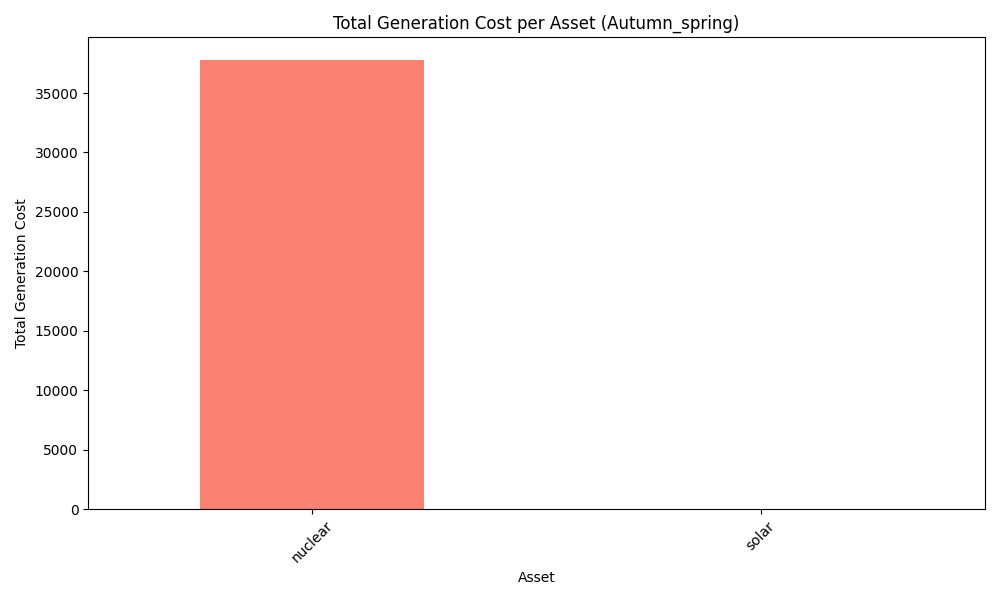
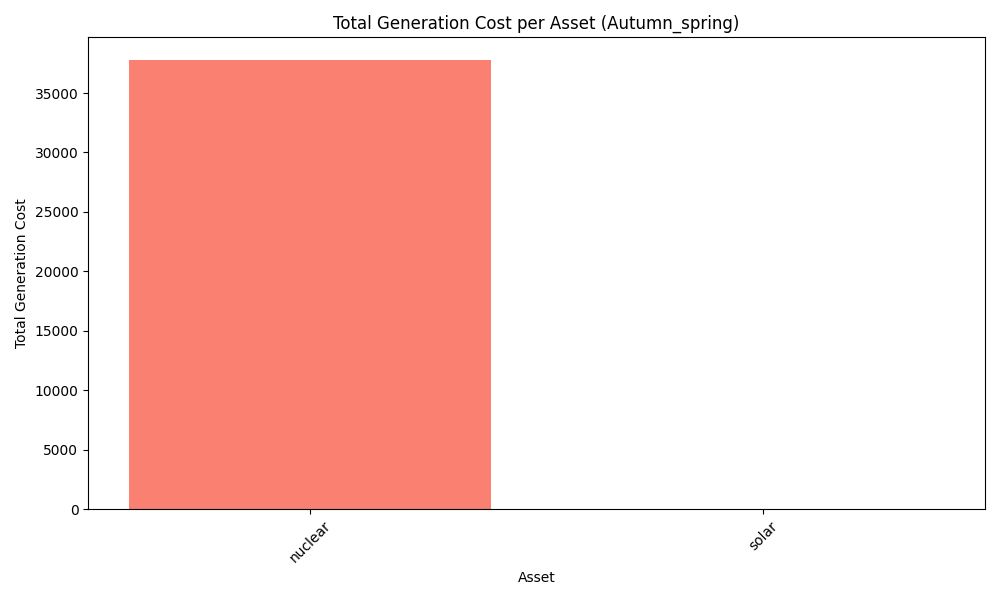
suppression of line flow plot, add of gen histogramm per year, add of cost split per asset per year

diff --git a/scripts/multi_scenario.py b/scripts/multi_scenario.py
@@ -71,14 +71,12 @@ def build_demand_time_series(master_load, load_factor, season_key):
     return scenario_load
 
 # %%
-def plot_scenario_results(results, demand_time_series, branch, bus, scenario_folder, season_key, id_to_type, id_to_gencost):
+def plot_scenario_results(results, demand_time_series, branch, bus, scenario_folder, season_key, id_to_type, id_to_gencost, id_to_pmax):
     """
     Generate and save plots:
     - Generation vs. Demand
-    - Histogram of Total Generation per Asset
+    - Histogram of Total Generation per Asset with Remaining Capacity
     - Histogram of Total Generation Cost per Asset
-    - Line Flows Over Time
-    - Network Flow Diagram
     """
     generation_over_time = results['generation'].copy()
     flows_over_time = results['flows'].copy()
@@ -95,7 +93,7 @@ def plot_scenario_results(results, demand_time_series, branch, bus, scenario_fol
     # Prepare the Total Demand Series
     demand_ts = demand_time_series.groupby('time')['pd'].sum().reindex(gen_pivot.index, fill_value=0)
 
-    # Map generator IDs to types dynamically
+    # Map generator IDs to types
     gen_pivot.rename(columns=id_to_type, inplace=True, errors="ignore")
 
     # Plot Generation vs. Demand
@@ -112,32 +110,55 @@ def plot_scenario_results(results, demand_time_series, branch, bus, scenario_fol
     plt.close()
     print(f"Saved Generation vs Demand plot => gen_vs_demand_{season_key}.png")
 
-    # Histogram of Total Generation per Asset
+    # Histogram of Total Generation per Asset with Remaining Capacity
     total_gen_per_asset = gen_pivot.sum().sort_values(ascending=False)
+    
+    # Calculate remaining capacity based on pmax and season weights
+    remaining_capacity = {}
+    for asset, gen in total_gen_per_asset.items():
+        # Find gen_id based on type
+        gen_ids = [id for id, typ in id_to_type.items() if typ == asset]
+        if gen_ids:
+            gen_id = gen_ids[0]  # Assuming unique type
+            total_pmax = id_to_pmax.get(gen_id, 0) * season_weights[season_key]
+            remaining = total_pmax - gen
+            remaining_capacity[asset] = remaining if remaining > 0 else 0
+        else:
+            remaining_capacity[asset] = 0
+    
+    remaining_capacity_series = pd.Series(remaining_capacity)
+    
+    # Plot stacked histogram
     plt.figure(figsize=(10, 6))
-    total_gen_per_asset.plot(kind='bar', color='skyblue')
+    plt.bar(total_gen_per_asset.index, total_gen_per_asset, color='skyblue', label='Total Generation (MW)')
+    plt.bar(remaining_capacity_series.index, remaining_capacity_series, bottom=total_gen_per_asset, color='lightgray', label='Remaining Capacity (MW)')
     plt.xlabel('Asset')
-    plt.ylabel('Total Generation (MW)')
-    plt.title(f'Total Generation per Asset ({season_key.capitalize()})')
+    plt.ylabel('Power (MW)')
+    plt.title(f'Total Generation and Remaining Capacity per Asset ({season_key.capitalize()})')
+    plt.legend()
     plt.xticks(rotation=45)
     plt.tight_layout()
-    plt.savefig(os.path.join(scenario_folder, f"hist_total_gen_{season_key}.png"))
+    plt.savefig(os.path.join(scenario_folder, f"hist_total_gen_with_capacity_{season_key}.png"))
     plt.close()
-    print(f"Saved Total Generation histogram => hist_total_gen_{season_key}.png")
+    print(f"Saved Generation with Capacity histogram => hist_total_gen_with_capacity_{season_key}.png")
 
     # Histogram of Total Generation Cost per Asset
     total_gen_cost_per_asset = {}
     for asset, gen in total_gen_per_asset.items():
         # Find the corresponding ID
-        gen_id = next((id for id, typ in id_to_type.items() if typ == asset), None)
-        if gen_id and gen_id in id_to_gencost:
-            total_gen_cost_per_asset[asset] = gen * id_to_gencost[gen_id]
+        gen_ids = [id for id, typ in id_to_type.items() if typ == asset]
+        if gen_ids:
+            gen_id = gen_ids[0]  # Assuming unique type
+            if gen_id in id_to_gencost:
+                total_gen_cost_per_asset[asset] = gen * id_to_gencost[gen_id]
+            else:
+                total_gen_cost_per_asset[asset] = 0.0  # Handle missing gencost
         else:
-            total_gen_cost_per_asset[asset] = 0.0  # Handle missing gencost if necessary
-
+            total_gen_cost_per_asset[asset] = 0.0  # Handle missing asset
+    
     total_gen_cost_series = pd.Series(total_gen_cost_per_asset)
     plt.figure(figsize=(10, 6))
-    total_gen_cost_series.plot(kind='bar', color='salmon')
+    plt.bar(total_gen_cost_series.index, total_gen_cost_series, color='salmon')
     plt.xlabel('Asset')
     plt.ylabel('Total Generation Cost')
     plt.title(f'Total Generation Cost per Asset ({season_key.capitalize()})')
@@ -145,7 +166,7 @@ def plot_scenario_results(results, demand_time_series, branch, bus, scenario_fol
     plt.tight_layout()
     plt.savefig(os.path.join(scenario_folder, f"hist_total_gen_cost_{season_key}.png"))
     plt.close()
-    print(f"Saved Total Generation Cost histogram => hist_total_gen_cost_{season_key}.png")
+    print(f"Saved Generation Cost histogram => hist_total_gen_cost_{season_key}.png")
 
     # Check Flow Limits
     flows_with_limits = flows_over_time.merge(
@@ -163,19 +184,19 @@ def plot_scenario_results(results, demand_time_series, branch, bus, scenario_fol
     else:
         print(f"All line flows are within limits for {season_key}.")
 
-    # Plot Line Flows Over Time
-    plt.figure(figsize=(12,6))
-    for (fbus, tbus), group in flows_with_limits.groupby(['from_bus', 'to_bus']):
-        plt.plot(group['time'], group['flow'], label=f"{fbus}->{tbus}")
-    plt.xlabel('Time')
-    plt.ylabel('Flow (MW)')
-    plt.title(f'Line Flows Over Time ({season_key.capitalize()})')
-    plt.legend()
-    plt.xticks(rotation=45)
-    plt.tight_layout()
-    plt.savefig(os.path.join(scenario_folder, f"line_flows_{season_key}.png"))
-    plt.close()
-    print(f"Saved Line Flows plot => line_flows_{season_key}.png")
+    # Commented out: Plot Line Flows Over Time
+    # plt.figure(figsize=(12,6))
+    # for (fbus, tbus), group in flows_with_limits.groupby(['from_bus', 'to_bus']):
+    #     plt.plot(group['time'], group['flow'], label=f"{fbus}->{tbus}")
+    # plt.xlabel('Time')
+    # plt.ylabel('Flow (MW)')
+    # plt.title(f'Line Flows Over Time ({season_key.capitalize()})')
+    # plt.legend()
+    # plt.xticks(rotation=45)
+    # plt.tight_layout()
+    # plt.savefig(os.path.join(scenario_folder, f"line_flows_{season_key}.png"))
+    # plt.close()
+    # print(f"Saved Line Flows plot => line_flows_{season_key}.png")
 
 # %%
 def main():
@@ -191,7 +212,9 @@ def main():
 
     # Create mappings from master_gen.csv
     id_to_type = master_gen.drop_duplicates(subset=['id'])[['id', 'type']].set_index('id')['type'].to_dict()
+    type_to_id = master_gen.drop_duplicates(subset=['type'])[['type', 'id']].set_index('type')['id'].to_dict()
     id_to_gencost = master_gen.drop_duplicates(subset=['id'])[['id', 'gencost']].set_index('id')['gencost'].to_dict()
+    id_to_pmax = master_gen.drop_duplicates(subset=['id'])[['id', 'pmax']].set_index('id')['pmax'].to_dict()
 
     # Load Scenarios
     scenarios_df = pd.read_csv(scenarios_params_file)
@@ -204,8 +227,17 @@ def main():
         load_factor = float(row["load_factor"])
 
         # Map types to IDs
-        gen_positions = {bus: type_to_id[gen_type] for bus, gen_type in gen_pos_raw.items()}
-        storage_positions = {bus: type_to_id[gen_type] for bus, gen_type in storage_pos_raw.items()}
+        try:
+            gen_positions = {bus: type_to_id[gen_type] for bus, gen_type in gen_pos_raw.items()}
+        except KeyError as e:
+            print(f"Error: Generator type '{e.args[0]}' not found in type_to_id mapping.")
+            continue
+
+        try:
+            storage_positions = {bus: type_to_id[gen_type] for bus, gen_type in storage_pos_raw.items()}
+        except KeyError as e:
+            print(f"Error: Storage type '{e.args[0]}' not found in type_to_id mapping.")
+            continue
 
         print(f"\nProcessing {scenario_name} with Generators: {gen_pos_raw} and Storage: {storage_pos_raw}")
 
@@ -238,7 +270,17 @@ def main():
                 demand_ts_plot = build_demand_time_series(master_load, load_factor, season)
                 plot_results = dcopf(gen_ts_plot, branch, bus, demand_ts_plot, delta_t=1)
                 if plot_results and plot_results.get("status") == "Optimal":
-                    plot_scenario_results(plot_results, demand_ts_plot, branch, bus, scenario_folder, season, id_to_type, id_to_gencost)
+                    plot_scenario_results(
+                        plot_results, 
+                        demand_ts_plot, 
+                        branch, 
+                        bus, 
+                        scenario_folder, 
+                        season, 
+                        id_to_type, 
+                        id_to_gencost, 
+                        id_to_pmax
+                    )
 
             scenario_results.append({
                 "scenario_name": scenario_name,
@@ -256,7 +298,7 @@ def main():
     results_df = pd.DataFrame(scenario_results)
     results_df.to_csv(os.path.join(results_root, "scenario_results.csv"), index=False)
     print("All scenarios processed.")
-
+    
 # %%
 if __name__ == "__main__":
     main()

diff --git a/scripts/create_master_gen.py b/scripts/create_master_gen.py
@@ -7,14 +7,6 @@ Reads wind-2023.csv and solar-2023.csv (each containing [time, value] for the fu
 filters three defined seasonal windows, and concatenates them into a single CSV:
 master_gen.csv with columns:
     time, id, type, pmax, pmin, gencost, emax, einitial, eta, season
-
-Now includes numeric IDs for each generator type:
-    nuclear -> 1,
-    gas -> 2,
-    wind -> 3,
-    solar -> 4,
-    battery1 -> 101,
-    battery2 -> 102
 """
 # %%
 import os
